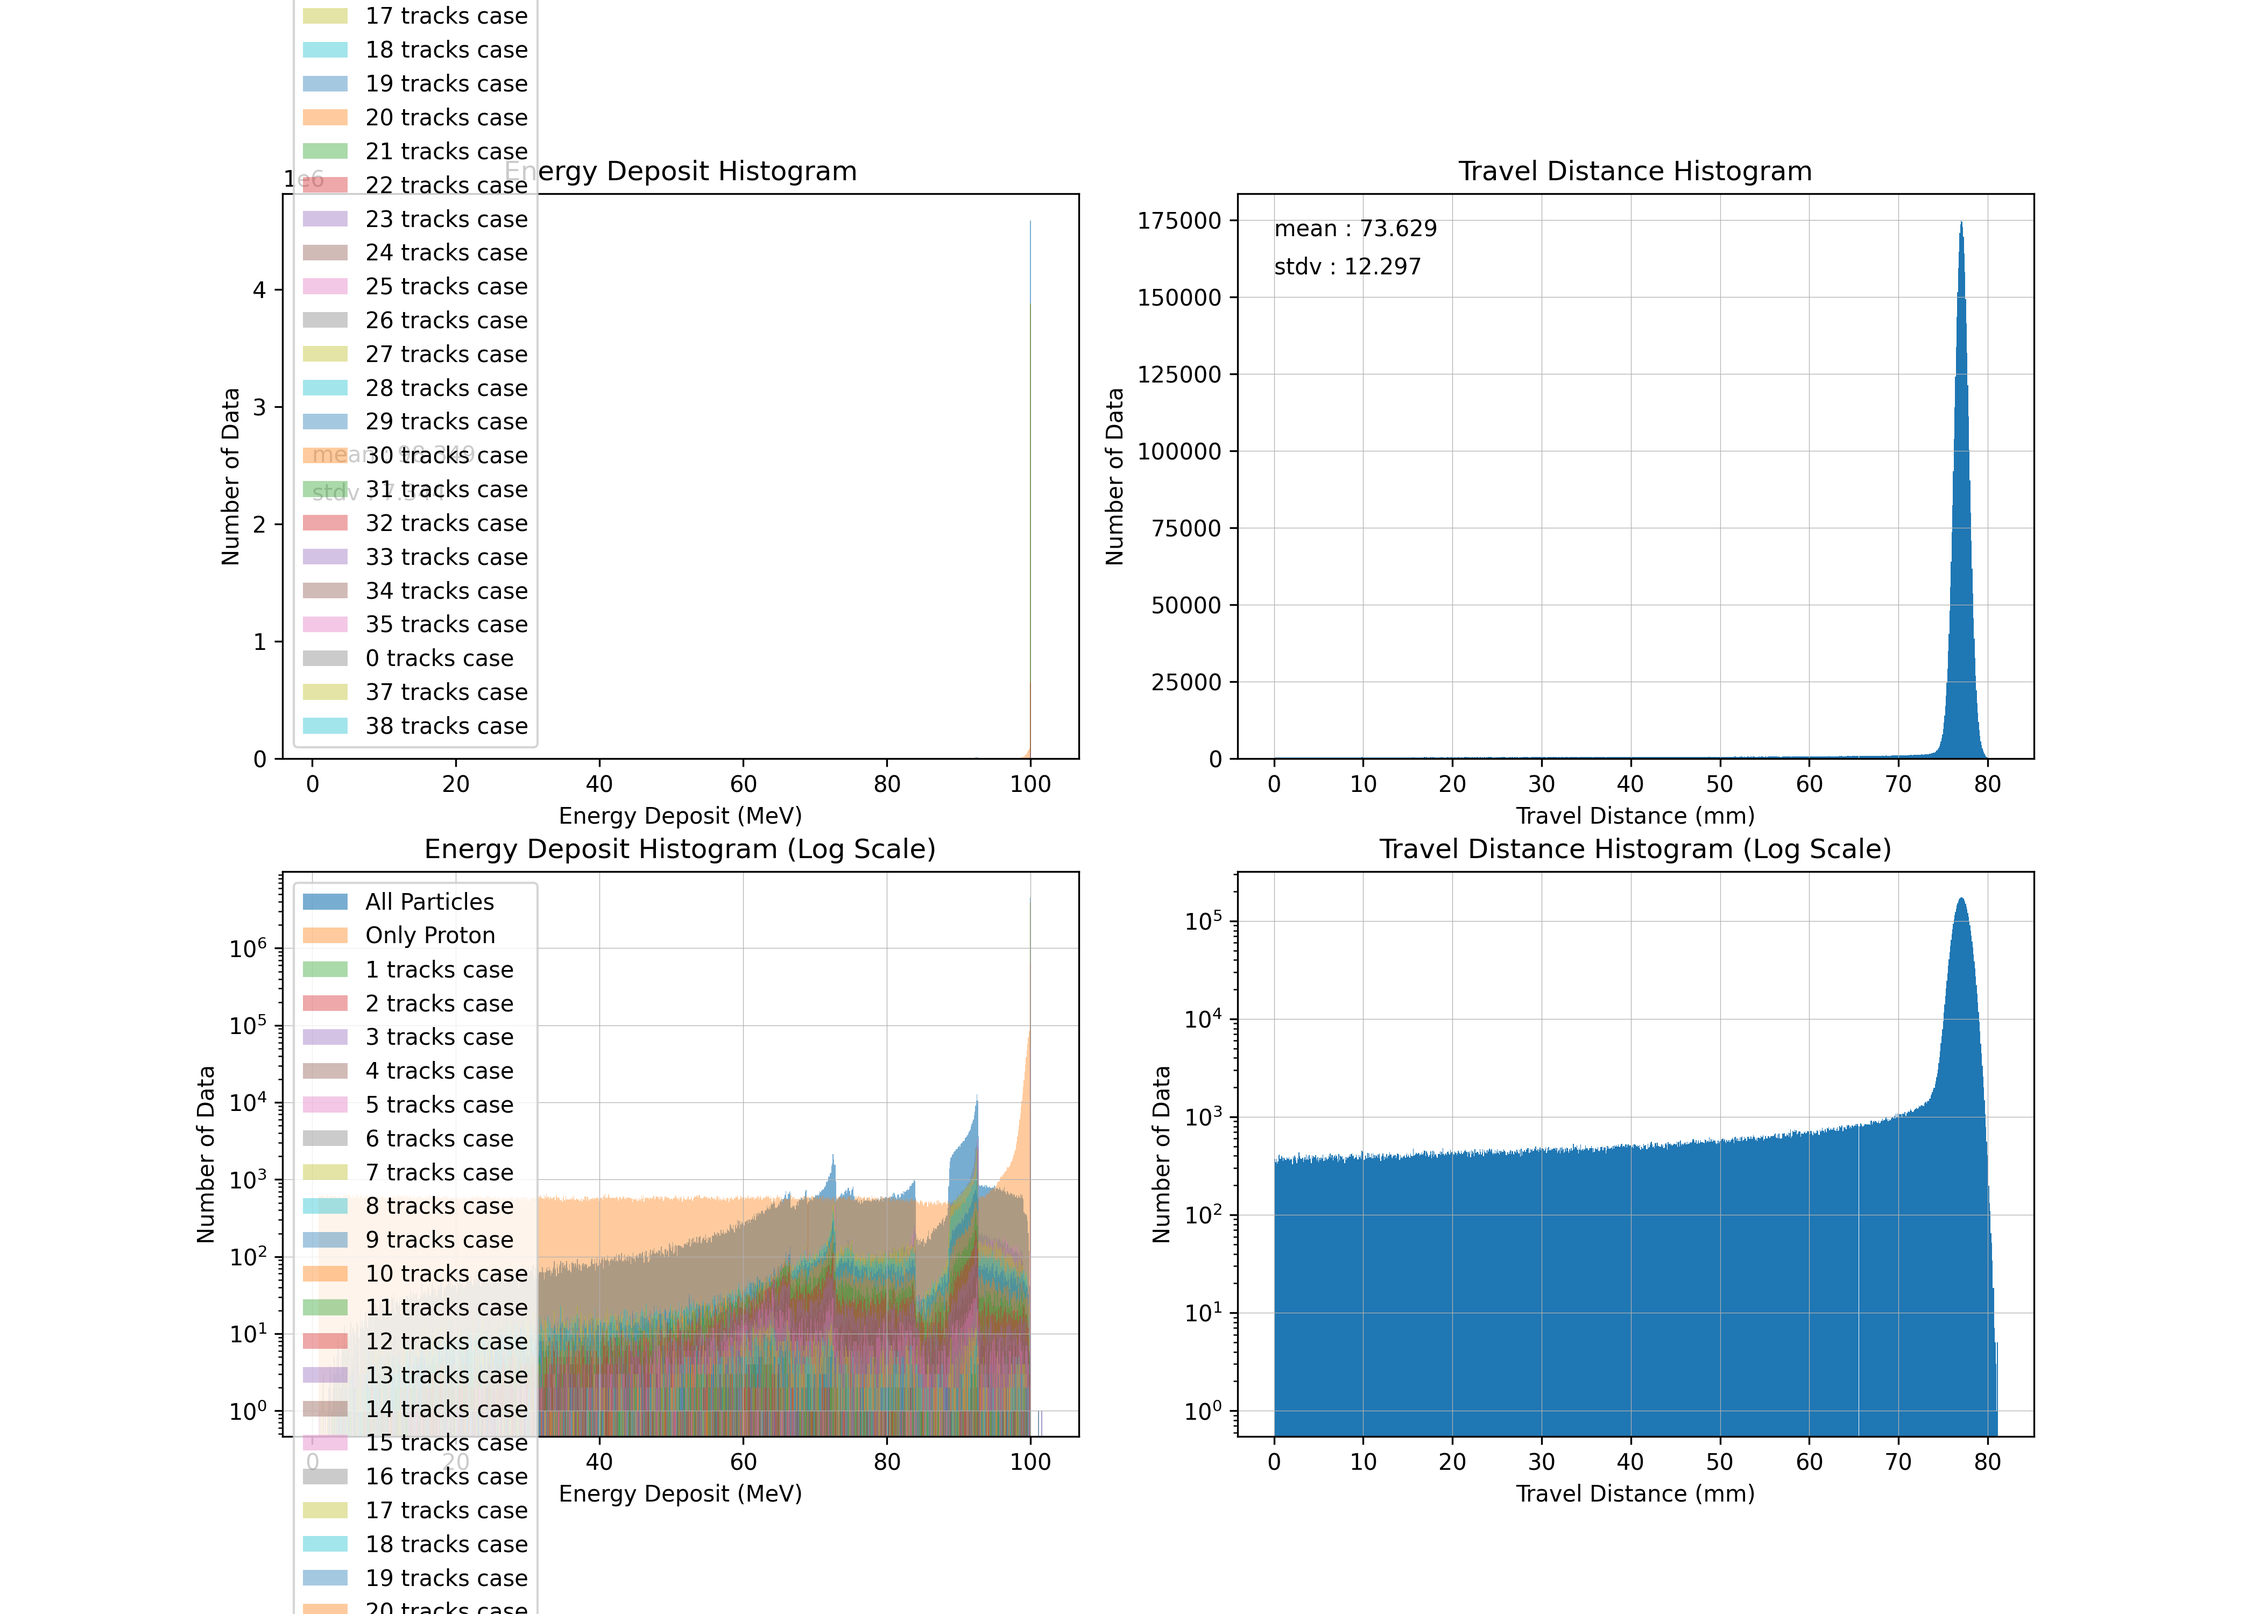
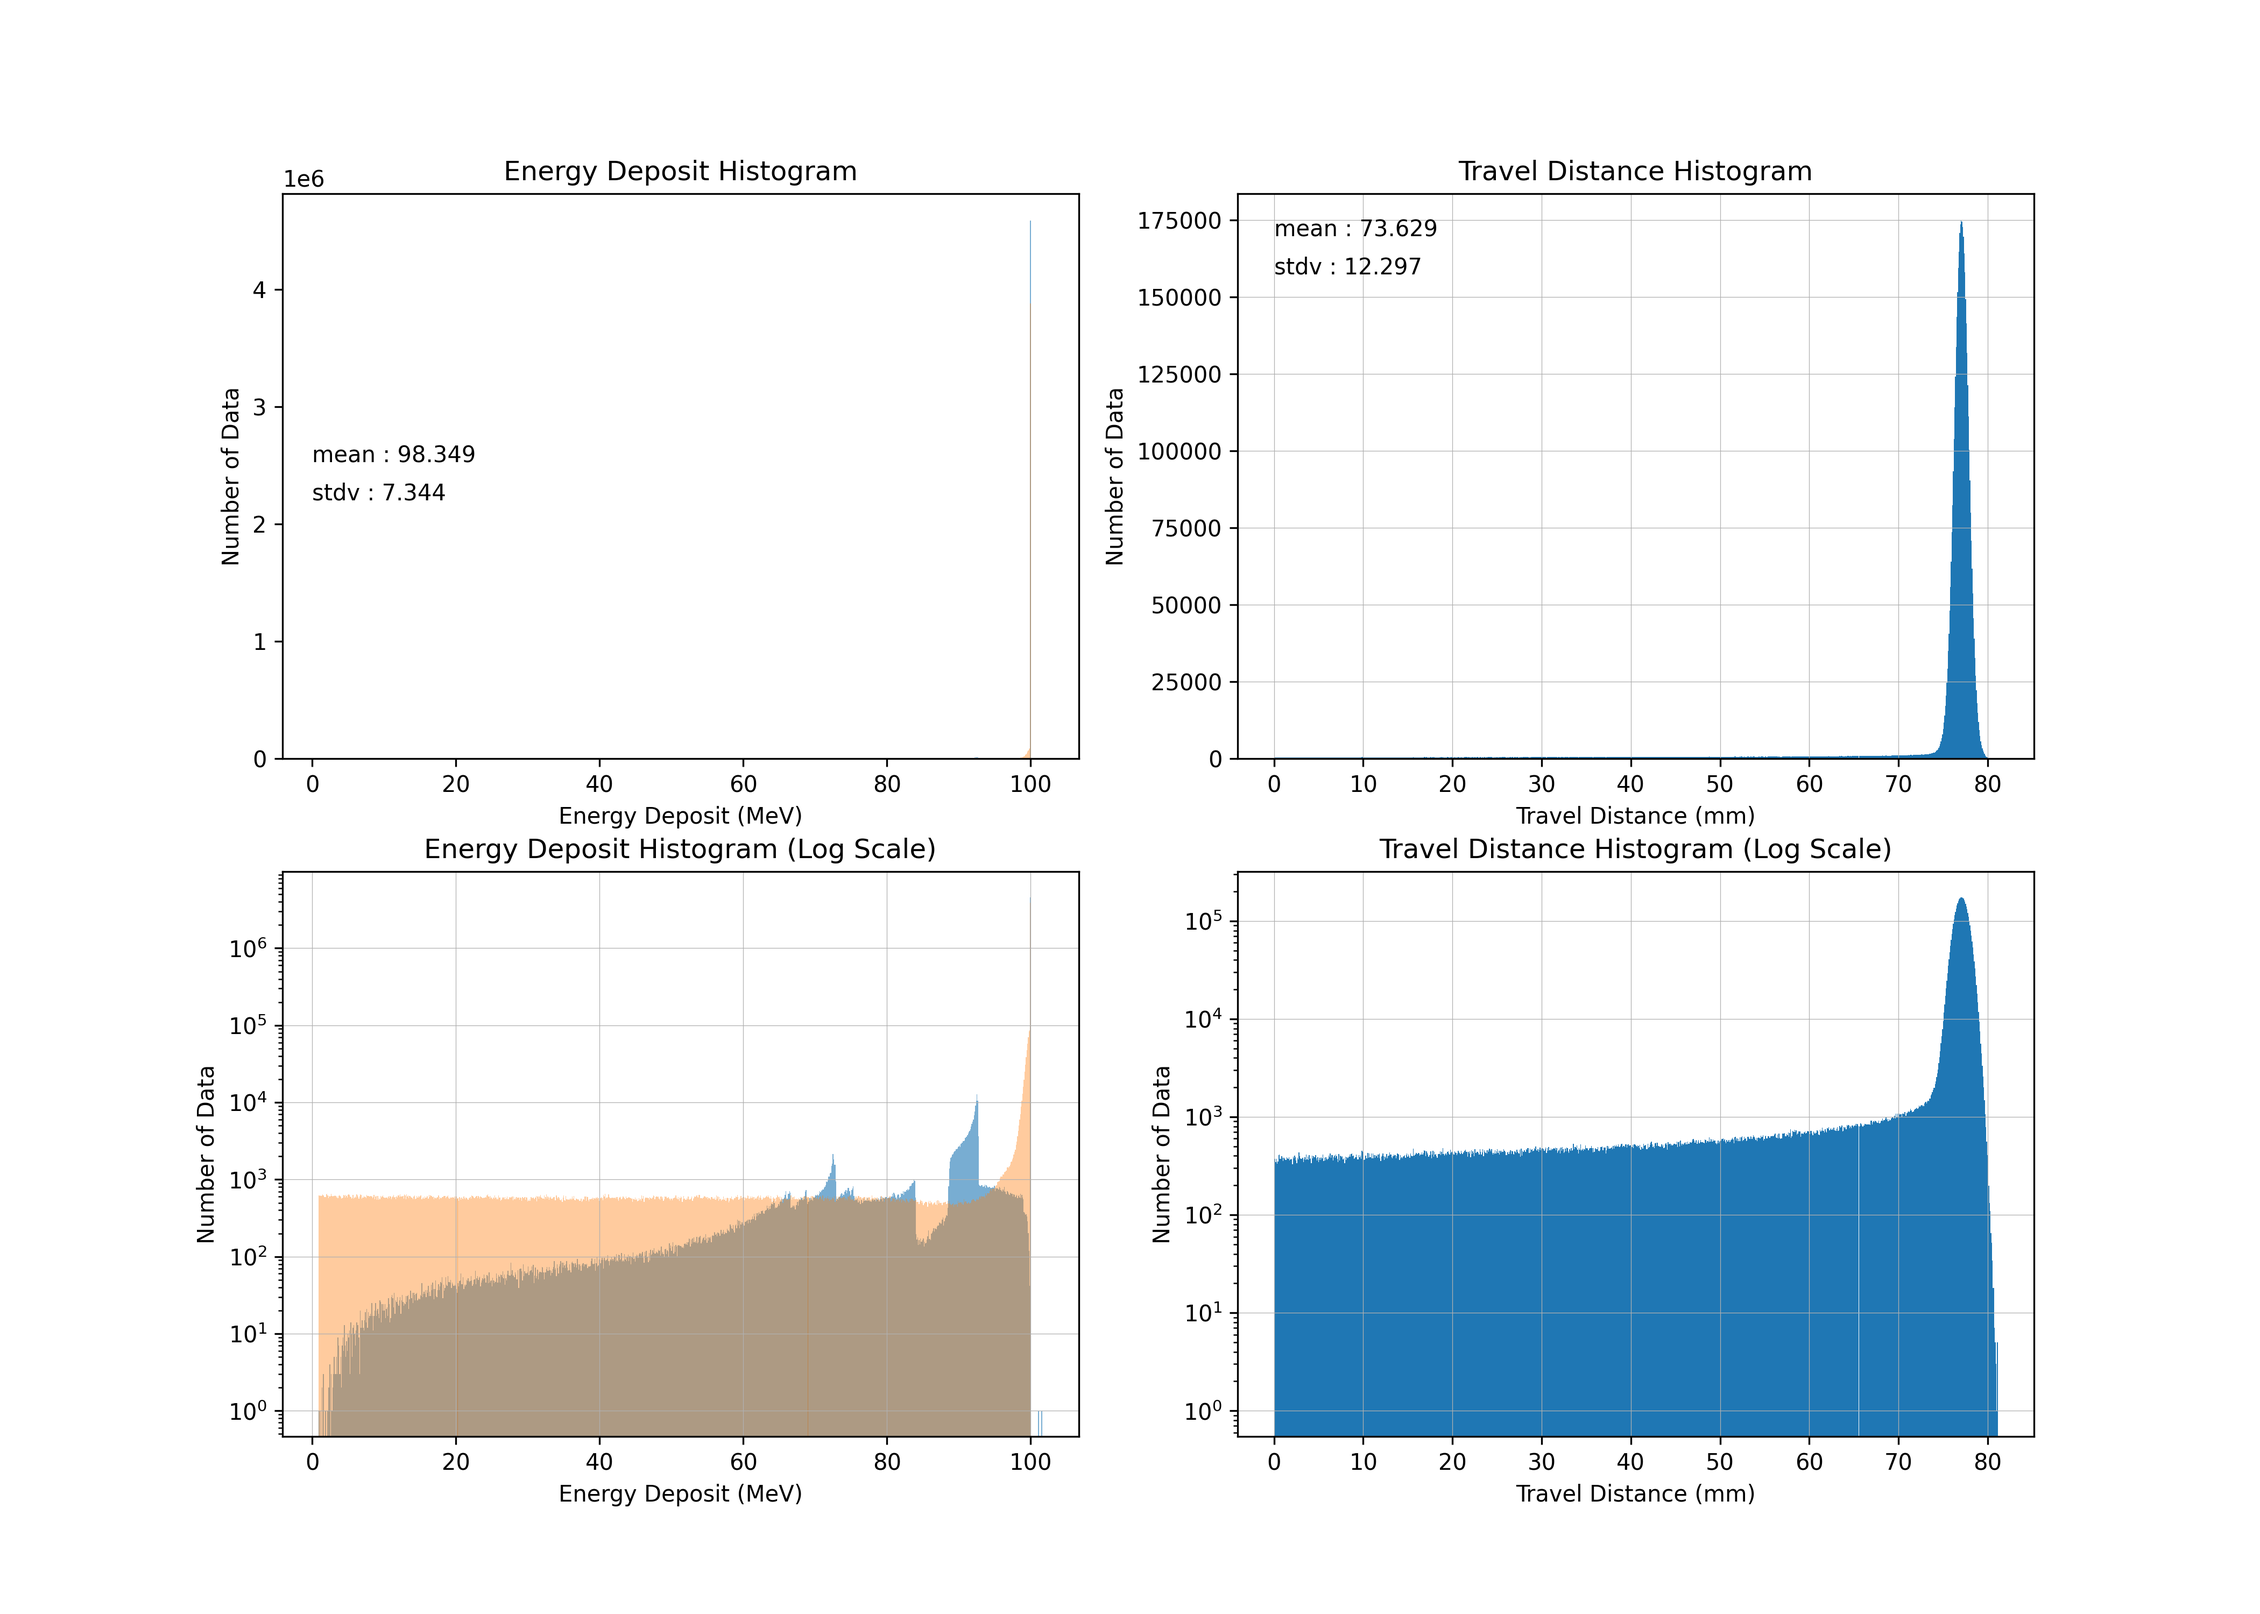
2202031353

Changed region(s): [[0.1248, 0.527, 0.4679, 1.0], [0.1248, 0.0, 0.2495, 0.465]]

diff --git a/histogram.py b/histogram.py
@@ -93,11 +93,6 @@ hist2dbin = 1000
 histoutput = axes[0, 0].hist(energyDepositList, bins=histbin, alpha=0.6, label='All Particles')
 histdata[0], binedge[0] = histoutput[:2]
 axes[0, 0].hist(energyDepositProtonList, binedge[0], alpha=0.4, label='Only Proton')
-i = 0
-while i < len(trackIdList):
-    axes[0, 0].hist(trackSortedEnergyDepositList[i], binedge[0], alpha=0.4, label=str(trackIdList[i])+' tracks case')
-    i += 1
-axes[0, 0].legend()
 # axes[0, 0].grid(linewidth=1)
 axes[0, 0].set_title("Energy Deposit Histogram")
 axes[0, 0].set_xlabel("Energy Deposit (MeV)")
@@ -116,11 +111,6 @@ axes[0, 1].text(0, max(histdata[1]) * 0.9, "stdv : {:.3f}".format(np.std(travelD
 
 axes[1, 0].hist(energyDepositList, bins=histbin, alpha=0.6, label='All Particles')
 axes[1, 0].hist(energyDepositProtonList, binedge[0], alpha=0.4, label='Only Proton')
-i = 0
-while i < len(trackIdList):
-    axes[1, 0].hist(trackSortedEnergyDepositList[i], binedge[0], alpha=0.4, label=str(trackIdList[i])+' tracks case')
-    i += 1
-axes[1, 0].legend()
 axes[1, 0].grid(linewidth=0.3)
 axes[1, 0].set_yscale("log")
 axes[1, 0].set_title("Energy Deposit Histogram (Log Scale)")
@@ -145,3 +135,18 @@ plt.xlabel("Total Energy Deposit (MeV)")
 plt.ylabel("Proton Energy Deposit (MeV)")
 # plt.xlim(-5, 105)
 plt.savefig("Histogram2D.png")
+
+
+fig2 = plt.figure(dpi=DPI, figsize=[14, 10])
+axes2 = fig2.subplots(nrows=3, ncols=3)
+i = 0
+while i < 9:
+    ax = axes2[int((i - i%3)/3), int(i%3)]
+    ax.hist(trackSortedEnergyDepositList[i], binedge[0], alpha=0.4, label=str(trackIdList[i])+' tracks case')
+    ax.set_title(str(trackIdList[i]) + "tracks case")
+    ax.set_xlabel("Total Energy Deposit (MeV)")
+    ax.set_ylabel("Number of Data")
+    ax.set_yscale("log")
+    i += 1
+fig2.subplots_adjust(wspace=0.3, hspace=0.3)
+fig2.savefig("Histogram_trackMax.png")
